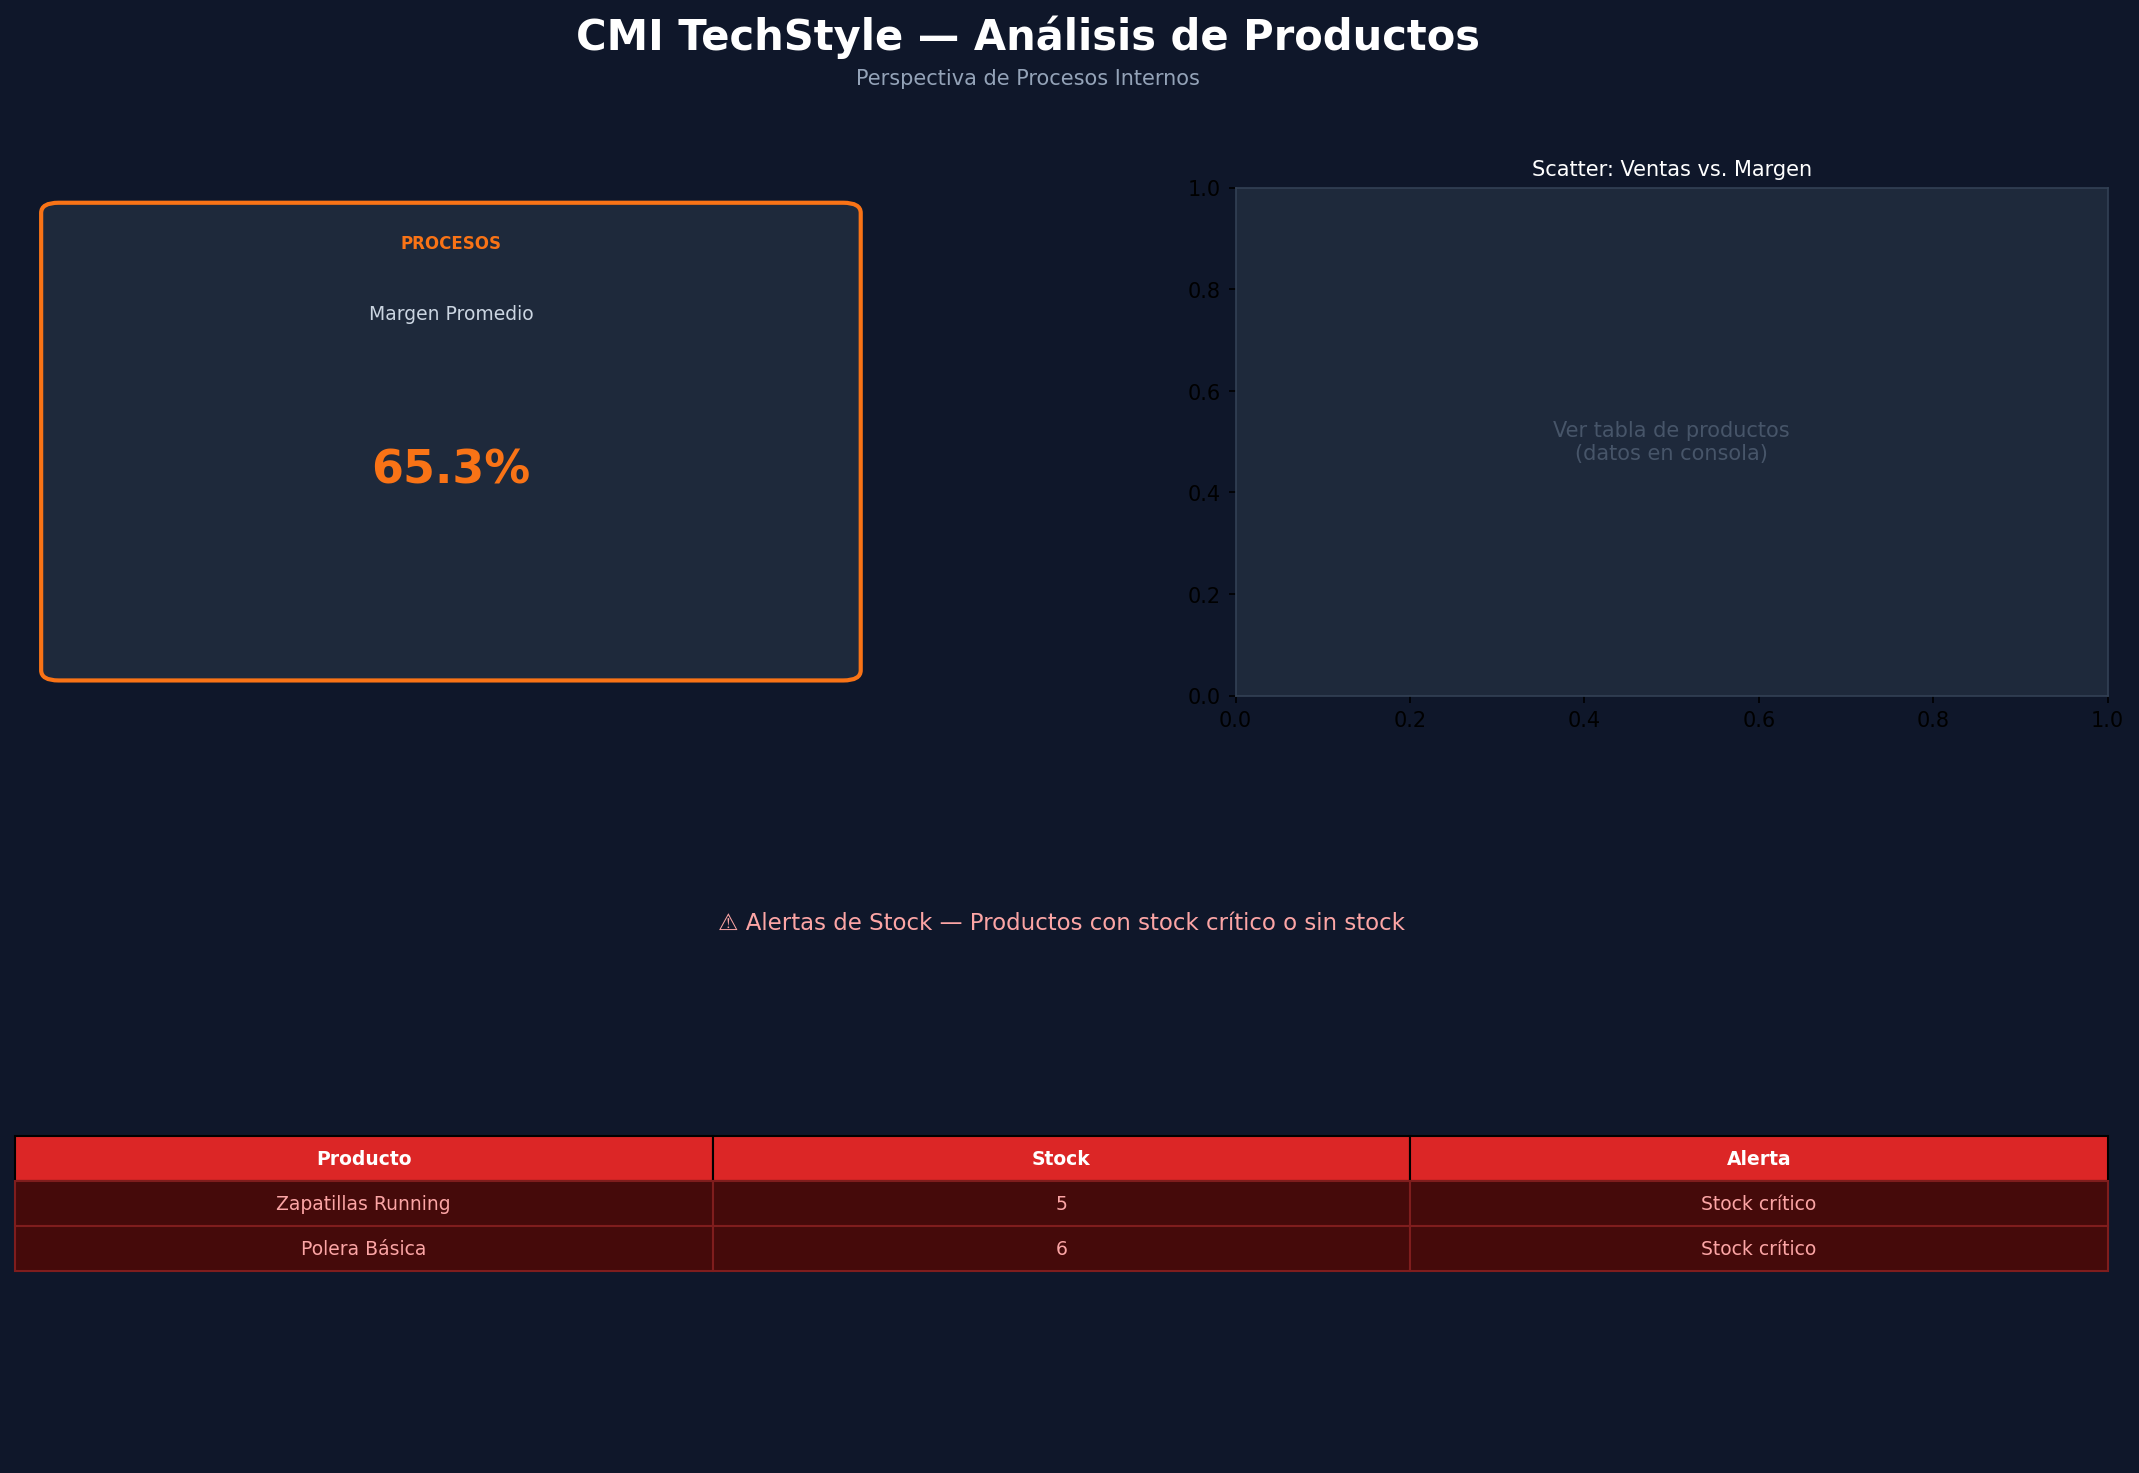
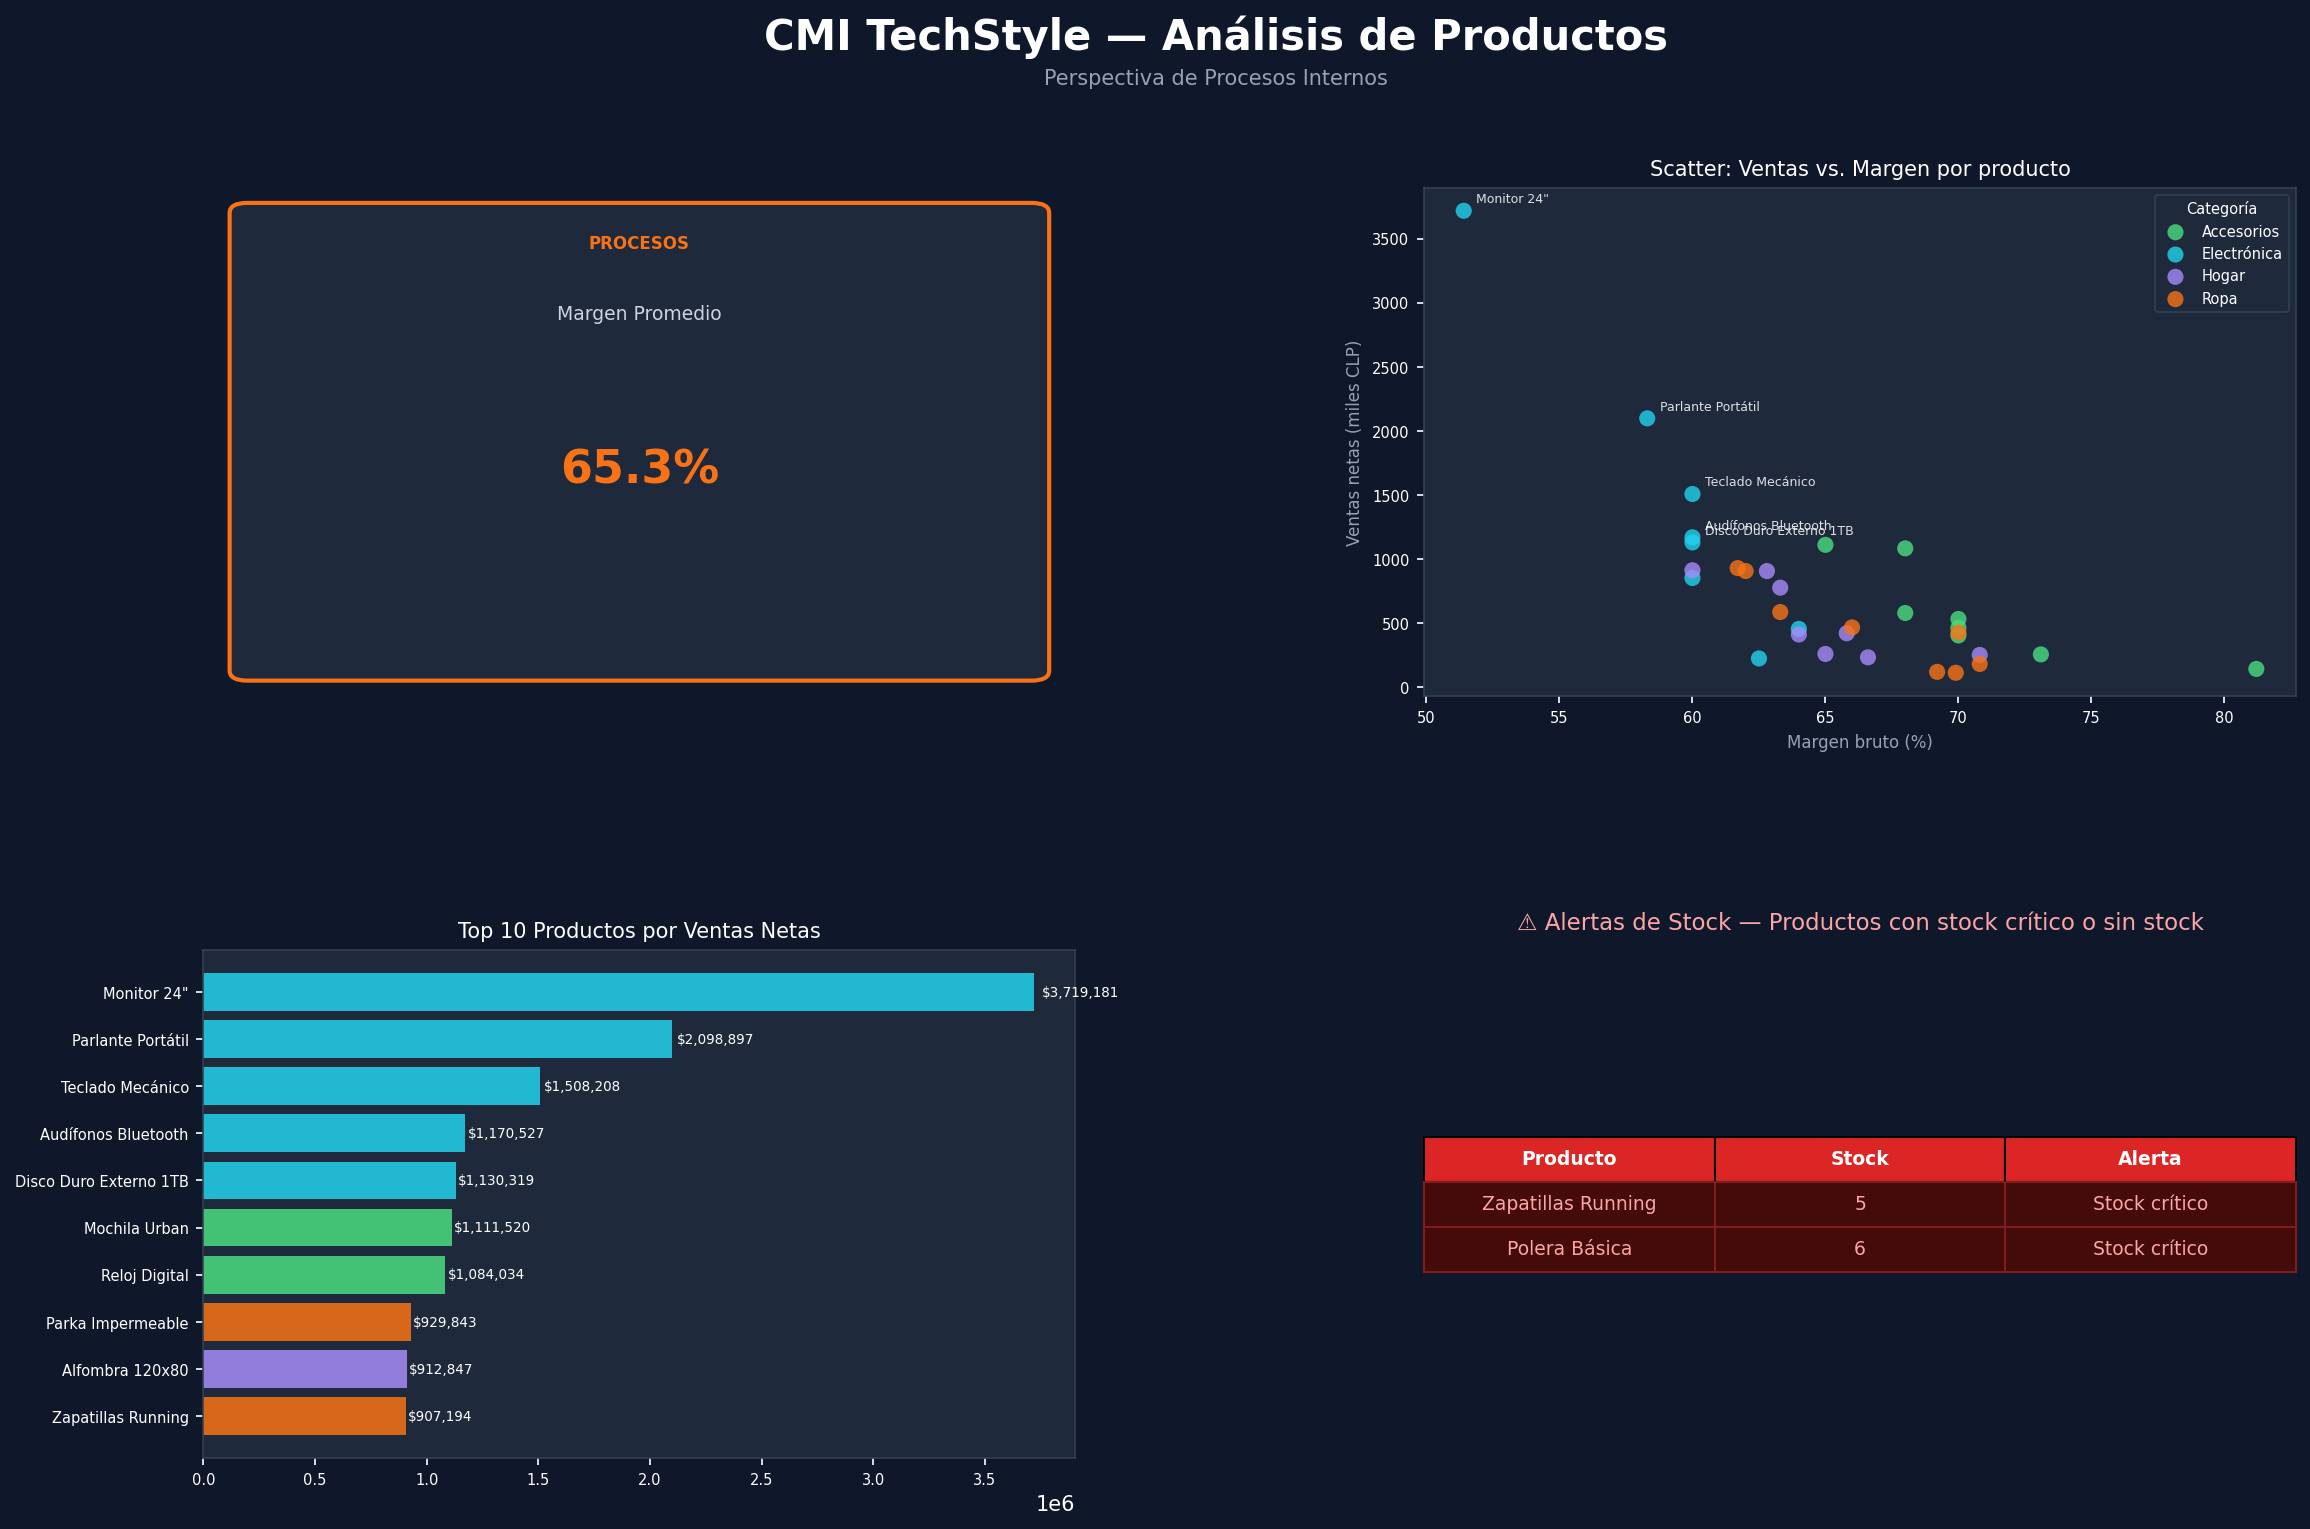
actualizar clases semana 3

diff --git a/docs/labs/instrucciones/W03_lab.html b/docs/labs/instrucciones/W03_lab.html
@@ -180,7 +180,7 @@ ul.task-list li input[type="checkbox"] {
 <section id="instrucciones-generales" class="level2" data-number="2">
 <h2 data-number="2" class="anchored" data-anchor-id="instrucciones-generales"><span class="header-section-number">2</span> Instrucciones generales</h2>
 <ul>
-<li>Trabajarás <strong>en parejas</strong>.</li>
+<li>Trabajarás <strong>en grupos</strong>.</li>
 <li>Todo el trabajo se realiza en <strong>Power BI Desktop</strong> usando Power Query y la Vista de Informe.</li>
 <li><strong>Duración total</strong>: 2 horas (120 minutos)</li>
 <li>Guarda el archivo frecuentemente como <code>W03_lab_[apellido1]_[apellido2].pbix</code>.</li>

diff --git a/labs/scripts/W03_etl_mini.py b/labs/scripts/W03_etl_mini.py
@@ -259,6 +259,11 @@ def calcular_kpis(hechos: pd.DataFrame) -> dict:
                             [["nombre_producto", "stock", "alerta_stock"]]
                             .drop_duplicates("nombre_producto")
                             .sort_values("stock"),
+        "ventas_x_producto": (hechos.groupby(["nombre_producto", "categoria", "margen_pct"])
+                              .agg(venta_neta=("venta_neta", "sum"),
+                                   cantidad=("cantidad", "sum"))
+                              .reset_index()
+                              .sort_values("venta_neta", ascending=False)),
     }
 
 
@@ -376,6 +381,8 @@ def _pagina_analisis_productos(kpis: dict):
     fig.text(0.5, 0.952, "Perspectiva de Procesos Internos",
              ha="center", fontsize=10, color="#94a3b8", va="top")
 
+    prods = kpis["ventas_x_producto"]
+
     # ── Tarjeta: margen promedio + KPI procesos ────────────────────────────────
     ax_kpi = fig.add_subplot(gs[0, 0])
     ax_kpi.axis("off")
@@ -383,19 +390,69 @@ def _pagina_analisis_productos(kpis: dict):
               f"{kpis['margen_promedio']:.1f}%", "#f97316")
 
     # ── Dispersión: Ventas vs. Margen por producto ────────────────────────────
-    # (necesitamos ventas_x_producto — lo recalculamos desde hechos en el scope exterior)
     ax_dis = fig.add_subplot(gs[0, 1])
     ax_dis.set_facecolor("#1e293b")
-    ax_dis.text(0.5, 0.5,
-                "Ver tabla de productos\n(datos en consola)",
-                ha="center", va="center", color="#475569",
-                fontsize=10, transform=ax_dis.transAxes)
-    ax_dis.set_title("Scatter: Ventas vs. Margen", fontsize=10, color="white", pad=6)
+
+    COLORES_CAT = {
+        cat: c for cat, c in zip(
+            prods["categoria"].unique(),
+            ["#22d3ee", "#4ade80", "#f97316", "#a78bfa",
+             "#fbbf24", "#f472b6", "#34d399", "#60a5fa"],
+        )
+    }
+    for cat, grupo in prods.groupby("categoria"):
+        ax_dis.scatter(
+            grupo["margen_pct"], grupo["venta_neta"] / 1_000,
+            label=cat, color=COLORES_CAT.get(cat, "#94a3b8"),
+            alpha=0.80, s=60, edgecolors="none",
+        )
+
+    # Etiqueta del top-5 por venta
+    top5 = prods.nlargest(5, "venta_neta")
+    for _, row in top5.iterrows():
+        ax_dis.annotate(
+            row["nombre_producto"],
+            (row["margen_pct"], row["venta_neta"] / 1_000),
+            textcoords="offset points", xytext=(6, 4),
+            fontsize=6, color="white", alpha=0.85,
+        )
+
+    ax_dis.set_xlabel("Margen bruto (%)", color="#94a3b8", fontsize=8)
+    ax_dis.set_ylabel("Ventas netas (miles CLP)", color="#94a3b8", fontsize=8)
+    ax_dis.tick_params(colors="white", labelsize=7)
+    ax_dis.xaxis.set_tick_params(labelcolor="white")
+    ax_dis.yaxis.set_tick_params(labelcolor="white")
+    ax_dis.set_title("Scatter: Ventas vs. Margen por producto",
+                     fontsize=10, color="white", pad=6)
+    legend = ax_dis.legend(fontsize=7, facecolor="#1e293b",
+                           edgecolor="#334155", labelcolor="white",
+                           title="Categoría", title_fontsize=7)
+    legend.get_title().set_color("white")
     for spine in ax_dis.spines.values():
         spine.set_edgecolor("#334155")
 
+    # ── Top-10 productos por venta (barras horizontales) ──────────────────────
+    ax_top = fig.add_subplot(gs[1, 0])
+    ax_top.set_facecolor("#1e293b")
+    top10 = prods.nlargest(10, "venta_neta")
+    colores_top = [COLORES_CAT.get(c, "#94a3b8") for c in top10["categoria"]]
+    ax_top.barh(range(len(top10)), top10["venta_neta"].values,
+                color=colores_top, alpha=0.85)
+    ax_top.set_yticks(range(len(top10)))
+    ax_top.set_yticklabels(top10["nombre_producto"], fontsize=7, color="white")
+    ax_top.invert_yaxis()
+    ax_top.tick_params(colors="white", labelsize=7)
+    ax_top.xaxis.set_tick_params(labelcolor="white")
+    ax_top.set_title("Top 10 Productos por Ventas Netas",
+                     fontsize=10, color="white", pad=6)
+    for bar, val in zip(ax_top.patches, top10["venta_neta"].values):
+        ax_top.text(bar.get_width() * 1.01, bar.get_y() + bar.get_height() / 2,
+                    f"${val:,.0f}", va="center", fontsize=6.5, color="white")
+    for spine in ax_top.spines.values():
+        spine.set_edgecolor("#334155")
+
     # ── Tabla: alertas de stock ────────────────────────────────────────────────
-    ax_stock = fig.add_subplot(gs[1, :])
+    ax_stock = fig.add_subplot(gs[1, 1])
     ax_stock.set_facecolor("#1e293b")
     ax_stock.axis("off")
 
